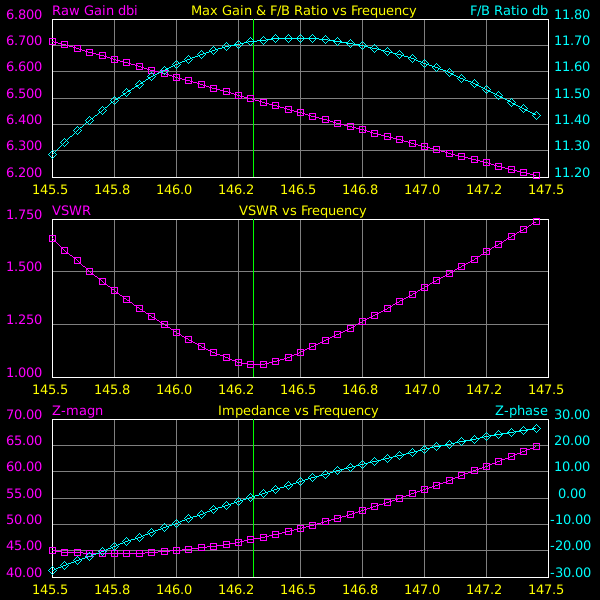
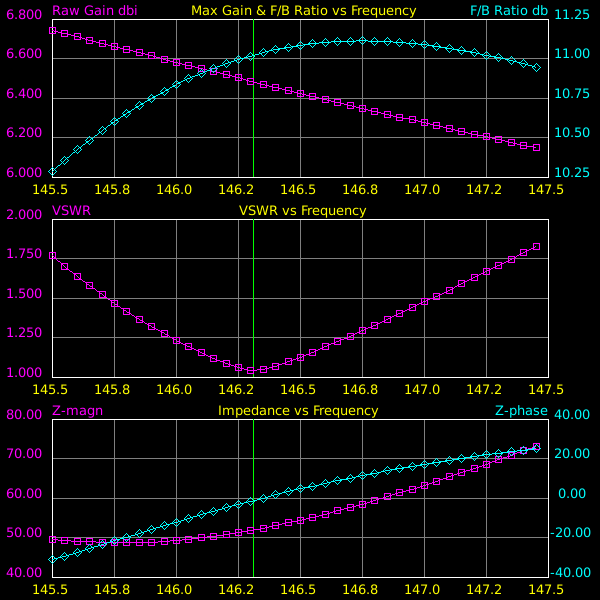
2m yagi fed with in-plane folded dipole, 6.5 dbi gain and 1.04 SWR @ 146.310 MHz

diff --git a/2m-fd-fed-yagi.py b/2m-fd-fed-yagi.py
@@ -41,8 +41,7 @@ Notes:
 '''
 
 targetMHz        = 146.310
-#correctionFactor = 0.932   # Trial and error correcion constant to account for velocity factor, etc
-correctionFactor = 0.9347   # Trial and error correcion constant to account for velocity factor, etc
+correctionFactor = 0.9374   # Trial and error correcion constant to account for velocity factor, etc
 wavelength       = m((300.0 * correctionFactor) / targetMHz)
 
 # Folded dipole driven element
@@ -50,7 +49,6 @@ radiusB = inch(1.0)
 radiusD = radiusB
 A       = (0.5 * wavelength) - (math.pi*radiusB)
 C       = A
-#Y0      = inch(5.0 + (2.0/8.0))
 Y0      = inch(5.0 + (3.0/8.0))
 Z0      = inch(36.0)
 
@@ -69,15 +67,15 @@ comments += 'CM ----------------------------------------------------------------
 comments += 'CE'
 
 # DE
-a1 = Point(A/2.0, Y0, Z0)
-a2 = Point(-a1.x, Y0, Z0)
-b  = Point( a2.x, Y0, Z0-radiusB)
-c1 = Point( a2.x, Y0, Z0-(2.0*radiusB))
-c2 = Point( a1.x, Y0, c1.z)
-d  = Point( a1.x, Y0, b.z)
+a1 = Point(A/2.0, Y0-radiusB, Z0)
+a2 = Point(-a1.x, Y0-radiusB, Z0)
+b  = Point( a2.x, Y0,         Z0)
+c1 = Point( a2.x, Y0+radiusB, Z0)
+c2 = Point( a1.x, Y0+radiusB, Z0)
+d  = Point( a1.x, Y0,         Z0)
 # Ref
-e1 = Point( E/2.0, Y1, b.z)
-e2 = Point(-E/2.0, Y1, b.z)
+e1 = Point( E/2.0, Y1, Z0)
+e2 = Point(-E/2.0, Y1, Z0)
 
 wireRadius = inch(1.0/16.0) # radius for a 1/8" wire
 segs       = 41
@@ -88,9 +86,9 @@ arcEnd     = deg(270)
 m = Model(wireRadius)
 # Driven element
 m.addWire(segs, a1, a2)
-m.addArc(arcSegs, radiusB, start=deg(90), end=deg(270), rotate=Rotation(deg(0),deg(0),deg(0)), translate=b)
+m.addArc(arcSegs, radiusB, start=deg(90), end=deg(270), rotate=Rotation(deg(90),deg(0),deg(0)), translate=b)
 m.addWire(segs, c1, c2).feedAtMiddle()
-m.addArc(arcSegs, radiusD, arcStart, arcEnd, rotate=Rotation(deg(0),deg(0),deg(180)), translate=d)
+m.addArc(arcSegs, radiusD, arcStart, arcEnd, rotate=Rotation(deg(90),deg(0),deg(180)), translate=d)
 # Reflector
 m.addWire(segs, e1, e2)
 
